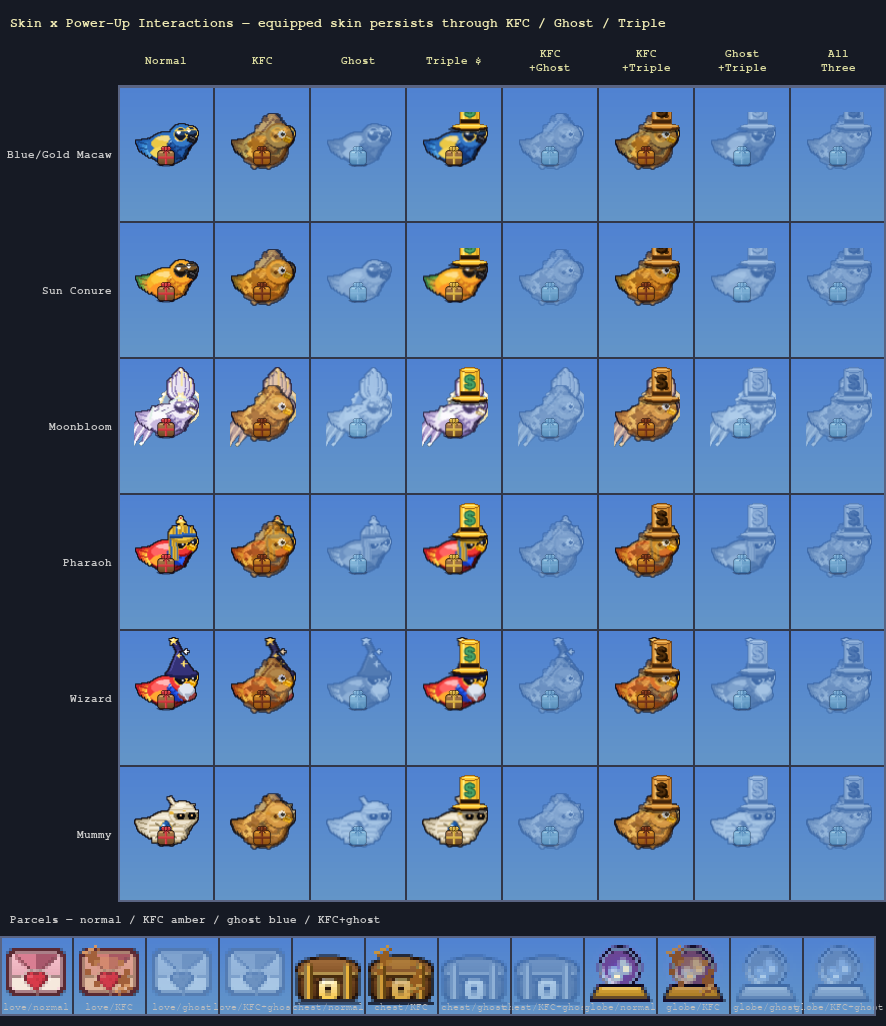
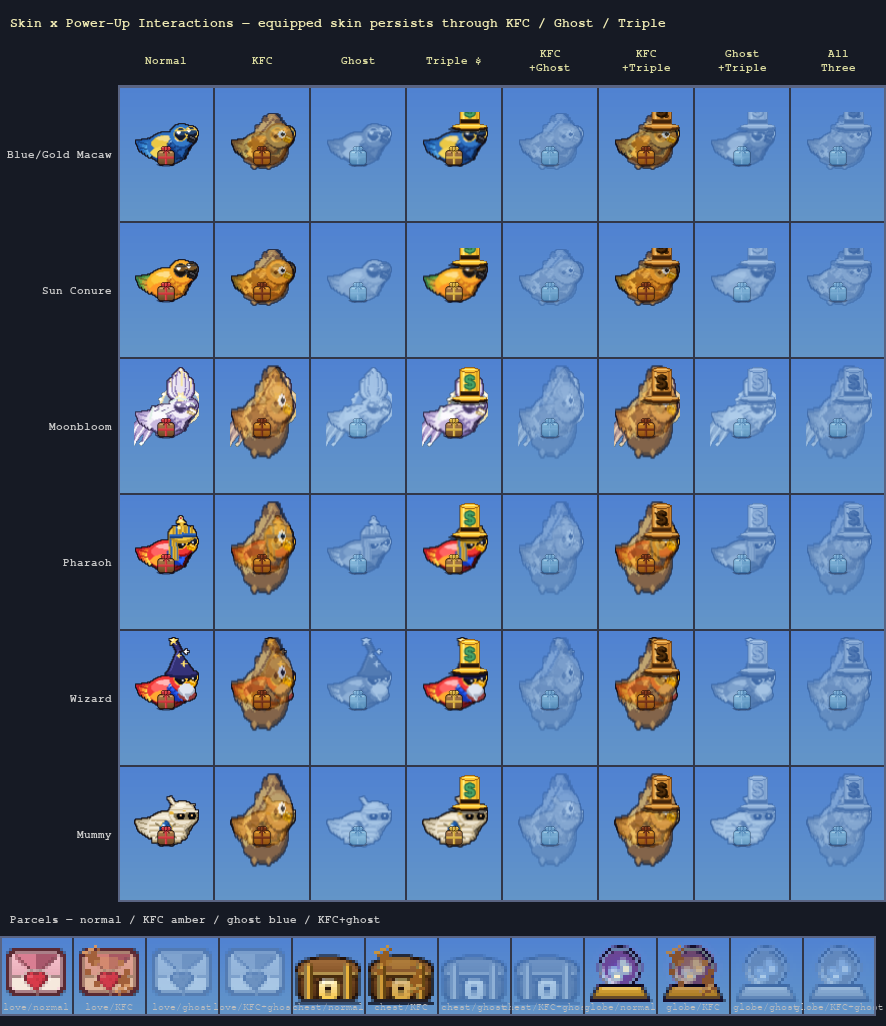
Scale KFC fried frame to full skin canvas for oversized skins
The 68×64 KFC bespoke frame was blitted at (ax,ay) to align with the
core bird zone, leaving zombie aura (16px border), costume hat headroom,
and animal body extensions only amber-tinted but without the fried-shape
overlay. Now smoothscale the frame to (iw,ih) before blitting at (0,0),
so the fried chicken shape expands to cover the full skin canvas.
Standard 68×64 skins hit the fast path (no scale).

Claude-Session: https://claude.ai/code/session_015DxSDkCugqKBGykq6WeVnV

diff --git a/game/parrot.py b/game/parrot.py
@@ -1145,11 +1145,14 @@ def build_skin_powerup_composites(skin_id: str) -> None:
                     if kfc_f:
                         # Warm the ~30% skin that shows through toward amber.
                         _cyan_tint_in_place(img, tint=_CRISPY_GOLD, strength=0.35)
-                        # Overlay the bespoke KFC fried frame at 70% opacity so the
-                        # plumper fried-chicken shape dominates the macaw silhouette.
+                        # Scale the KFC fried frame to the full skin canvas so oversized
+                        # skins (zombie aura, costume hat headroom, animal extensions)
+                        # receive the fried-shape overlay across their whole extent.
                         kfc_frame = _get_kfc_frames()[fi].copy()
+                        if kfc_frame.get_size() != (iw, ih):
+                            kfc_frame = pygame.transform.smoothscale(kfc_frame, (iw, ih))
                         kfc_frame.fill((255, 255, 255, 178), special_flags=pygame.BLEND_RGBA_MULT)
-                        img.blit(kfc_frame, (ax, ay))
+                        img.blit(kfc_frame, (0, 0))
                     if triple_f:
                         # $ stovepipe hat: brim anchor in 68×64 core space is (49,12);
                         # shift by (ax, ay) to reach canvas space.
